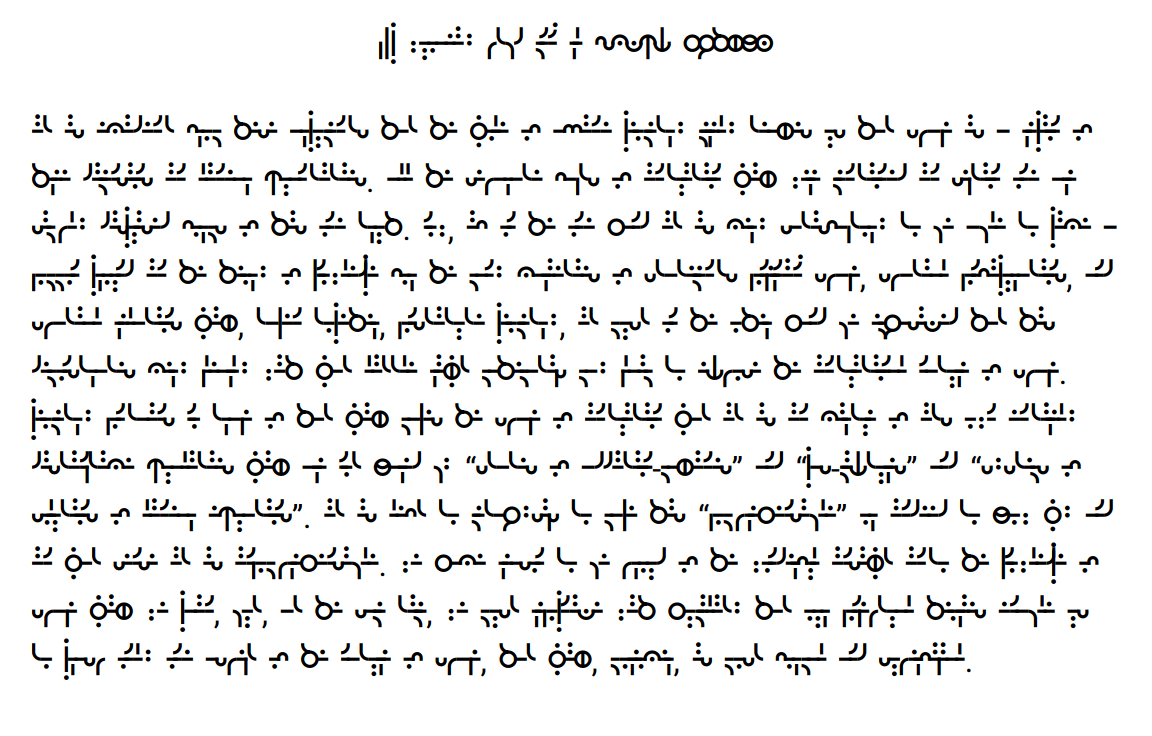
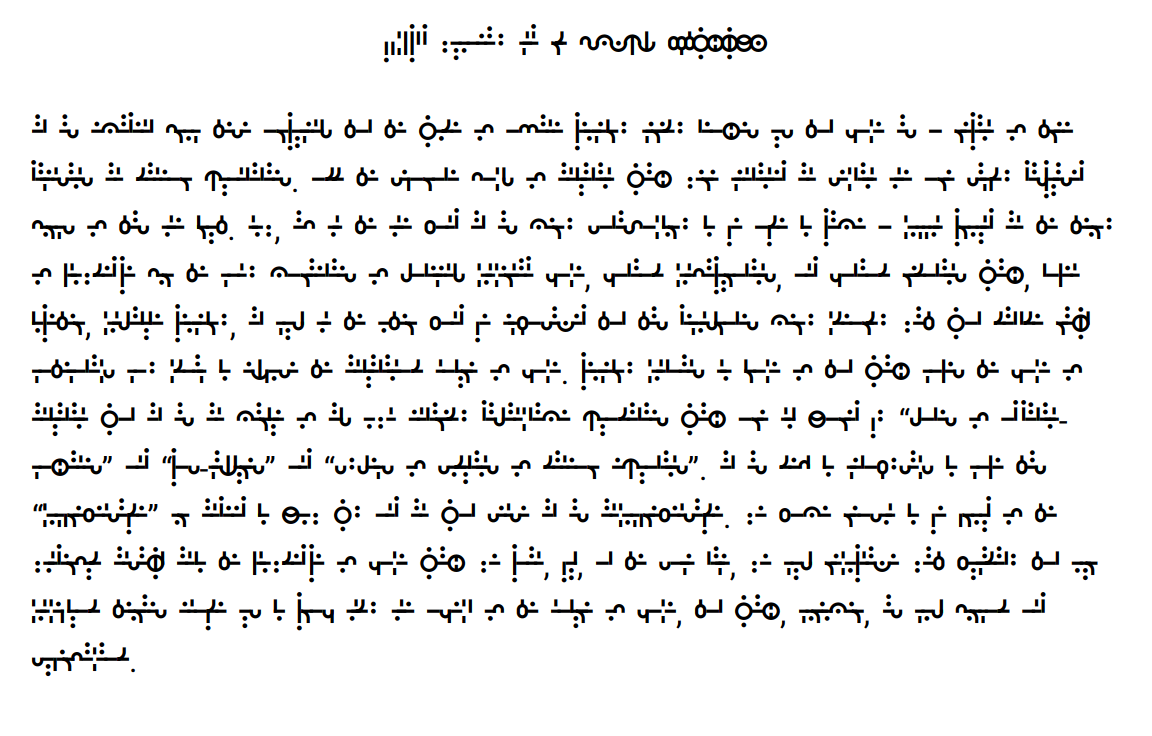
Straighten curved glyphs

Changed region(s): [[0.0, 0.1562, 0.9688, 0.9375], [0.3125, 0.0312, 0.6875, 0.0938]]

diff --git a/specimen/specimen.html b/specimen/specimen.html
@@ -55,7 +55,7 @@
   </head>
   <body>
     <section class="affine" style="line-height: 1;text-align: center;">
-      <p>ckg wuoaeiy ptbd mnng rl fsvzqx hphthchshj</p>
+      <p>bpckgtd wuoaeiy mnng rl fsvzqx hphthwhchghshj</p>
     </section>
 
     <div class="screen-two-up">
